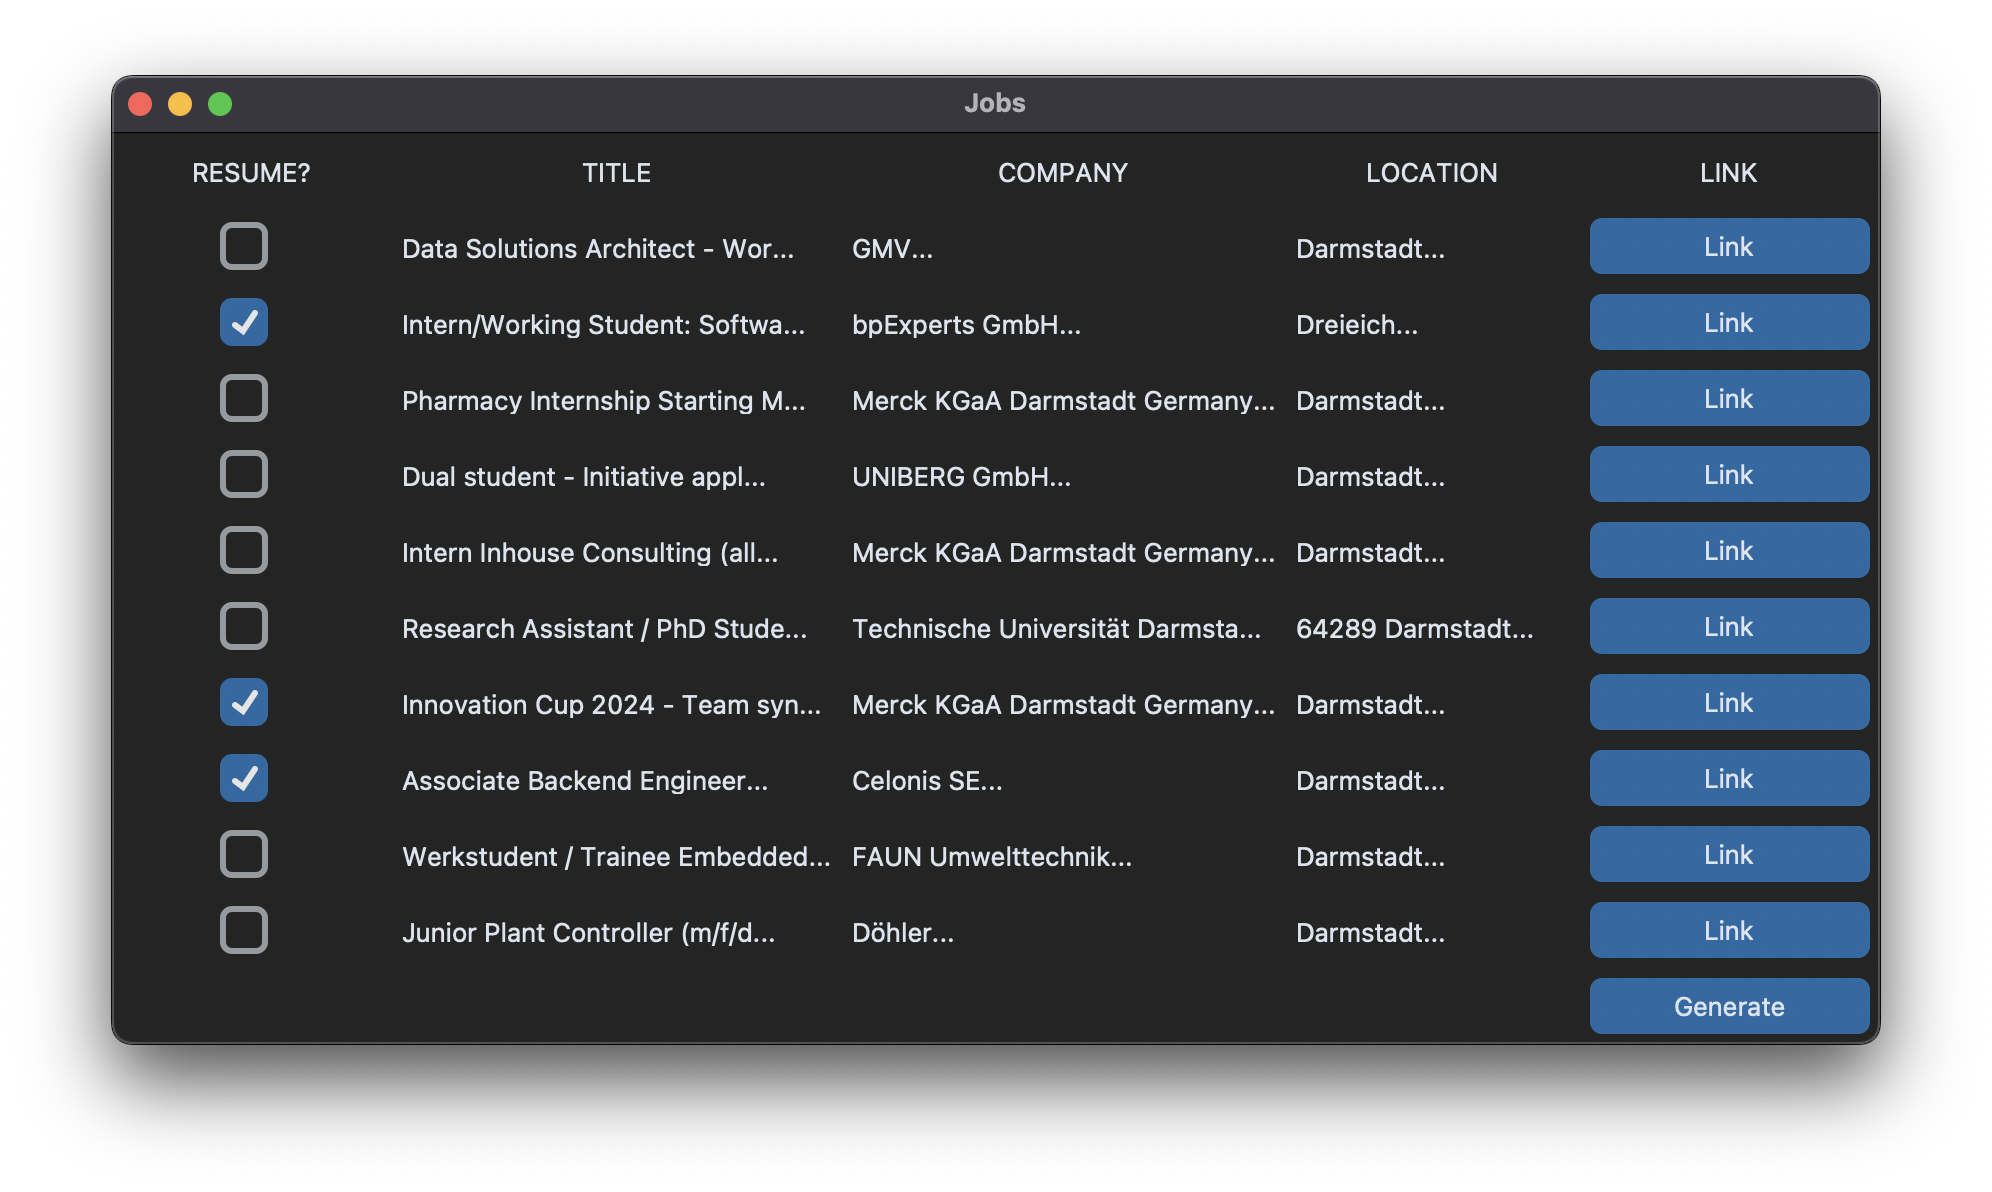
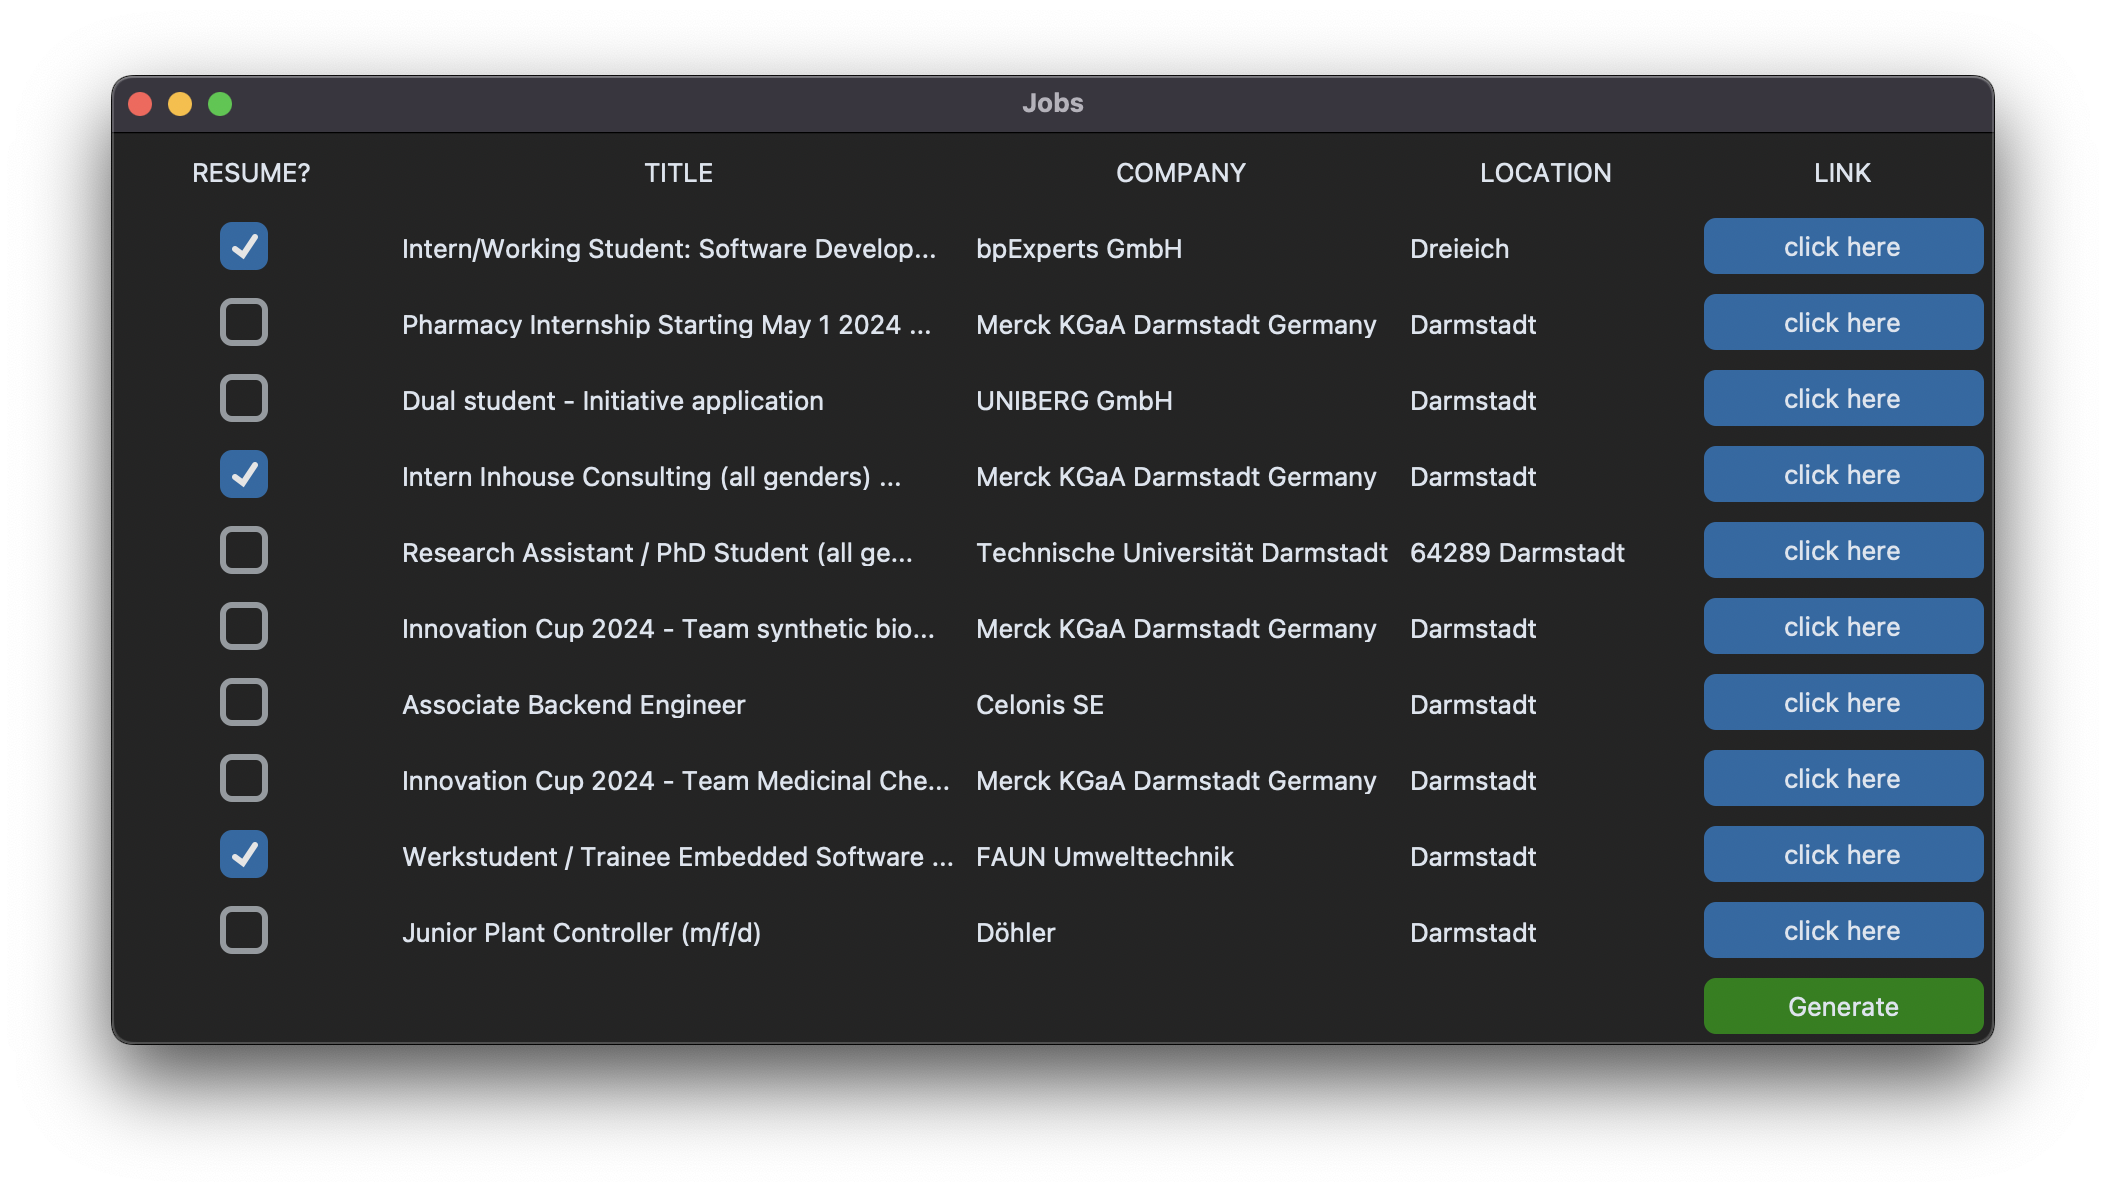
bug fixing and change colour of main action buttons

diff --git a/gui.py b/gui.py
@@ -54,7 +54,7 @@ class App(ctk.CTk):
 
         ctk.CTkOptionMenu(self, variable=self.website_choice, values=self.website_choices).grid(row=5, column=1, padx=5, pady=5)
 
-        self.scrape_button = ctk.CTkButton(self, text="Scrape", command=self.scrape)
+        self.scrape_button = ctk.CTkButton(self, text="Scrape", command=self.scrape, fg_color="green", hover_color="dark green")
         self.scrape_button.grid(row=6, column=1, padx=5, pady=5)
 
         # getting the working root directory
@@ -168,12 +168,12 @@ class JobWindow(ctk.CTkToplevel):
             var = ctk.IntVar()
             self.selected.append(var)
             ctk.CTkCheckBox(self, variable=var, text="", width=30).grid(row=idx+1, column=0, padx=5, pady=5)
-            ctk.CTkLabel(self, text=job.job_title[0:30]+"...").grid(row=idx+1, column=1, sticky="W", padx=5, pady=5)
-            ctk.CTkLabel(self, text=job.job_company[0:30]+"...").grid(row=idx+1, column=2, sticky="W", padx=5, pady=5)
-            ctk.CTkLabel(self, text=job.job_location[0:30]+"...").grid(row=idx+1, column=3, sticky="W", padx=5, pady=5)
-            ctk.CTkButton(self, text="Link", command=lambda link=job.job_link: self.callback(link)).grid(row=idx+1, column=4, padx=5, pady=5)
+            ctk.CTkLabel(self, text=job.job_title[0:40] + ("..." if len(job.job_title) >= 40 else "")).grid(row=idx+1, column=1, sticky="W", padx=5, pady=5)
+            ctk.CTkLabel(self, text=job.job_company[0:40] + ("..." if len(job.job_company) >= 40 else "")).grid(row=idx+1, column=2, sticky="W", padx=5, pady=5)
+            ctk.CTkLabel(self, text=job.job_location[0:40] + ("..." if len(job.job_location) >= 40 else "")).grid(row=idx+1, column=3, sticky="W", padx=5, pady=5)
+            ctk.CTkButton(self, text="click here", command=lambda link=job.job_link: self.callback(link)).grid(row=idx+1, column=4, padx=5, pady=5)
 
-        self.generate_button = ctk.CTkButton(self, text="Generate", command=self.generate_letter)
+        self.generate_button = ctk.CTkButton(self, text="Generate", command=self.generate_letter, fg_color="green", hover_color="dark green")
         self.generate_button.grid(row=len(self.jobs) + 1, column=4, padx=5, pady=5)
 
     def callback(self, link):
